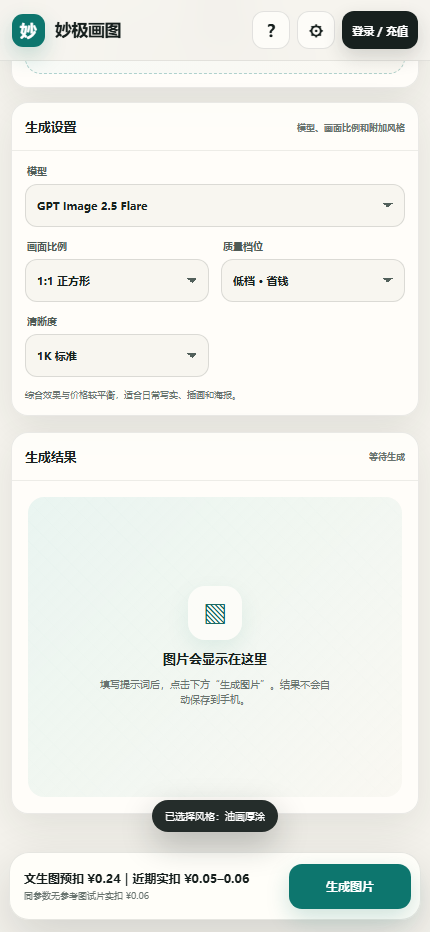
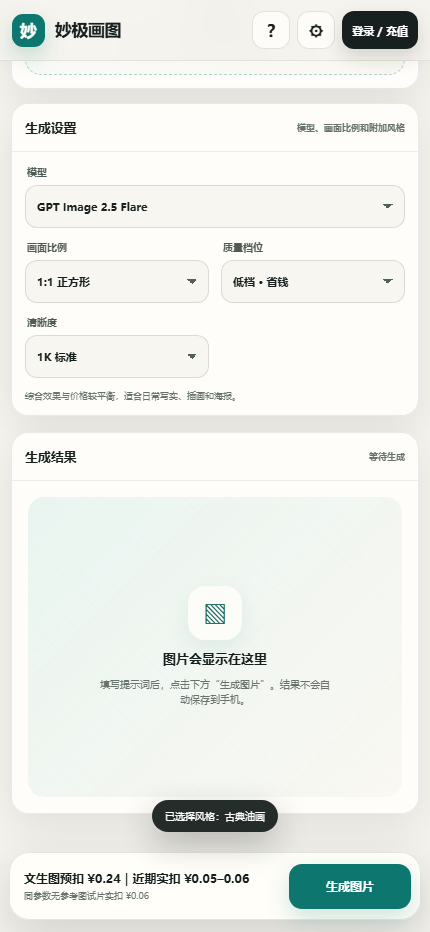
release: add detailed style previews and rewritten prompts

diff --git a/android/app/src/main/assets/index.html b/android/app/src/main/assets/index.html
@@ -482,9 +482,17 @@
     }
     .style-preview {
       position: relative;
-      height: 86px;
+      height: auto;
+      aspect-ratio: 4 / 3;
       overflow: hidden;
       background: #ddd8cd;
+    }
+    .style-preview img {
+      width: 100%;
+      height: 100%;
+      display: block;
+      object-fit: cover;
+      transform: scale(1.01);
     }
     .style-preview::after {
       content: "";
@@ -1052,7 +1060,7 @@
       .settings-grid { grid-template-columns: 1fr 1fr; }
       .settings-grid .field:first-child { grid-column: 1 / -1; }
       .style-grid { grid-template-columns: repeat(2, minmax(0, 1fr)); }
-      .style-preview { height: 92px; }
+      .style-preview { height: auto; }
       .reference-preview { grid-template-columns: 78px minmax(0, 1fr); }
       .reference-preview img { width: 78px; height: 78px; }
       .action-dock { min-height: 68px; padding: 9px; }
@@ -1223,7 +1231,7 @@
         <div class="update-box">
           <div class="update-head">
             <strong>应用更新</strong>
-            <span class="version-text" id="versionText">当前版本 1.4.1</span>
+            <span class="version-text" id="versionText">当前版本 1.5.0</span>
           </div>
           <p class="update-message" id="updateMessage">从 GitHub Releases 检查新版本。</p>
           <div class="button-row">
@@ -1352,24 +1360,24 @@
         desc: "完全按你的文字生成", prompt: ""
       },
       {
-        id: "oil", name: "油画厚涂", category: "popular", preview: "oil",
-        desc: "笔触、油彩与厚涂质感",
-        prompt: "经典油画风格，明显而有层次的厚涂笔触，丰富油彩质感，博物馆级画面，戏剧性明暗和深邃色彩"
+        id: "oil", name: "古典油画", category: "popular", preview: "oil",
+        desc: "厚涂、罩染与博物馆光感",
+        prompt: "采用传统布面油画语言，厚涂堆叠与透明罩染结合。先用大块色面建立体积，再在衣褶、皮肤、岩石、木材和金属等关键处保留清楚可读的笔触。主光从侧后方进入，形成温暖的亮部、丰富中间色和带色相的透明暗部，必要时加入一束克制的冷色轮廓光。近景细节密集，远处逐渐概括，画面具有博物馆原作级别的色层、肌理和空气感。避免数码平滑、塑料高光、过度锐化和俗艳滤镜。除用户明确要求外，不生成文字、签名或水印。"
       },
       {
-        id: "illustration", name: "精品插画", category: "popular", preview: "storybook",
-        desc: "出版级构图与配色",
-        prompt: "高质量出版级插画，精致构图，和谐高级配色，丰富手绘细节，画面完整，具有叙事感"
+        id: "illustration", name: "叙事插画", category: "popular", preview: "storybook",
+        desc: "出版级构图与视觉叙事",
+        prompt: "创作出版级叙事插画。画面先建立清晰视觉中心，再用一条自然动线引导视线穿过前景、中景和背景。主体造型经过提炼但细节充足，边缘有手绘的温度；配色采用一个主色调、两种邻近色和少量高饱和强调色，明暗关系明确。加入可信的布料纹理、木纹、石材、植物和环境光，细节只集中在叙事关键处，背景适度概括。构图具有编辑设计感，画面完整、克制、有故事但不过度拥挤。除用户明确要求外，不出现文字、边框、logo或水印。"
       },
       {
         id: "cinematic", name: "电影剧照", category: "photo", preview: "film",
-        desc: "逆光、景深与电影色彩",
-        prompt: "电影剧照风格，电影摄影机质感，戏剧性逆光，自然景深，电影调色，真实皮肤与材质细节"
+        desc: "真实镜头、叙事光与电影调色",
+        prompt: "真实电影剧照质感，仿佛使用35mm电影摄影机和35–50mm镜头拍摄。光源必须有明确动机：窗光、路灯、落日或场景实景灯；主体边缘有柔和轮廓光，背景自然虚化但保留环境信息。人物皮肤有细微毛孔和真实高光，服装、头发、灰尘与空气微粒可信。采用低饱和电影调色，高光偏暖、阴影带冷色，保留宽容度和层次，不使用AI式过度磨皮。构图像一个故事的关键停顿，主体有动作和情绪，画面没有摆拍塑料感。除用户明确要求外，不出现字幕、logo或水印。"
       },
       {
-        id: "papercard", name: "纸艺卡片", category: "design", preview: "papercard",
-        desc: "纸雕层次与精致留白",
-        prompt: "高级纸艺拼贴卡片风格，分层纸雕结构，细纸纹理与柔和阴影，精致留白，杂志级平面构图"
+        id: "papercard", name: "纸雕艺术卡", category: "design", preview: "papercard",
+        desc: "多层纸雕、真实纸纤维与光影",
+        prompt: "高级纸雕艺术卡片。画面由多层不同厚度和颜色的纸材构成，层与层之间保持真实空间距离，产生柔和投影和纸纤维边缘。主景用剪纸轮廓建立，细节通过镂空、刻线和少量叠色完成；主体占画面约一半，留出呼吸空间。光线从左上侧柔和进入，让纸面产生轻微起伏与细微纹理，但不过度做旧。配色控制在三到四种，采用米白、墨绿、暖红或金色中的一个重点色。整体有手工制作的可信触感、编辑设计感和收藏价值。除用户明确要求外，不生成文字或水印。"
       },
       {
         id: "travel-memory", name: "旅行记忆拼贴", category: "design", preview: "travel",
@@ -1377,61 +1385,66 @@
         prompt: "将上传的旅行照片制作成一张3:4竖版创意拼贴海报。严格保留上半部分原照片的人物身份、发型、服装、姿势、主体、构图、色彩和真实摄影质感，不得换人、增加另一个人、改变人物年龄或服装。下半部分使用温暖但干净的米白色纸面，以少量克制的黑色手绘线条为主，只从原图中选择一种主要景物延伸过边界，并转化成一件能使用的东西。只设计一个清楚、自然的互动，且必须与上半人物的动作关系连续；如果原图没有人物，才可使用一个很小的线稿人物。上下景物必须沿边界自然连接，动作合理，不能出现两套互不相关的场景。大面积留白，只保留必要线条，不添加无关装饰、完整插画或厚重纹理。配一句与动作有关的简短手写英文。整体克制、自然，有独立杂志的拼贴感，上下明暗、色温和透视协调。"
       },
       {
-        id: "watercolor", name: "水彩手绘", category: "art", preview: "watercolor",
-        desc: "水色晕染与纸张纹理",
-        prompt: "高级水彩手绘风格，自然水色晕染，透明叠色，纸张纤维纹理，边缘轻松，画面通透有呼吸感"
+        id: "watercolor", name: "透明水彩", category: "art", preview: "watercolor",
+        desc: "湿画晕染、留白与纸纤维",
+        prompt: "传统透明水彩原作质感，使用冷压棉浆水彩纸。先以湿画法铺出大块空气感色面，再用干笔在视觉中心补充结构、纹理和少量铅笔线。颜色通过透明叠色形成，不靠厚重白颜料；高光利用纸张留白，边缘有自然水痕、轻微回渗和颜料沉积，但不弄脏画面。主色和邻近色保持和谐，只在一个小区域使用饱和度较高的暖色或冷色作为惊喜。构图有呼吸感，主体细节集中，背景逐渐虚化。避免数码渐变、塑料高光和均匀颗粒。除用户明确要求外，不出现文字或水印。"
       },
       {
-        id: "ink", name: "水墨国风", category: "art", preview: "ink",
-        desc: "宣纸、墨韵与大留白",
-        prompt: "中国水墨画风格，宣纸质感，墨色浓淡与飞白变化，写意笔触，大面积留白，东方审美构图"
+        id: "ink", name: "现代水墨", category: "art", preview: "ink",
+        desc: "宣纸、墨韵、飞白与留白",
+        prompt: "现代水墨画语言，表现于有细微纤维的宣纸。以焦、浓、重、淡、清五种墨阶建立空间，湿笔形成柔和扩散，干笔保留飞白和纸面阻力。主体先以有力的大笔触确定气势，再用少量细线补充结构；远景用水墨淡染和留白暗示，不做完整写实描摹。画面保留大面积安静空间，黑白节奏明确，必要时只加入一处很小但克制的朱红或青绿作为视觉惊喜。构图具有现代东方审美，避免程序化梅花、假毛笔字和装饰性堆砌。除用户明确要求外，不出现文字、印章或水印。"
       },
       {
-        id: "anime", name: "动漫插画", category: "art", preview: "anime",
-        desc: "清爽色彩与精细背景",
-        prompt: "高质量动漫插画风格，干净线稿，通透色彩，精致背景，自然光影，完成度高的商业动画视觉"
+        id: "anime", name: "动画关键帧", category: "art", preview: "anime",
+        desc: "赛璐璐光、精细背景与镜头感",
+        prompt: "商业动画关键帧质感。角色线稿清晰并有粗细变化，赛璐璐色块干净，头发和眼睛具有分层高光，衣料褶皱符合动作。背景按动画美术标准绘制，近景材质详细、远景概括，使用室内外统一光源与明确色温。构图像一个正在发生的镜头，角色有自然动作、视线和情绪；前景可加入轻微遮挡，空气中有少量可信的光斑或粒子。色彩通透，不脏不乱，暗部有颜色，不把角色与背景生硬贴在一起。避免廉价滤镜、过度发光和随机装饰。除用户明确要求外，不出现文字或水印。"
       },
       {
-        id: "manga", name: "漫画线稿", category: "art", preview: "manga",
-        desc: "黑白网点与强烈线条",
-        prompt: "漫画线稿风格，粗细变化的墨线，网点阴影，强烈黑白构图，动感分镜感，纸张印刷质感"
+        id: "manga", name: "黑白漫画", category: "art", preview: "manga",
+        desc: "墨线、网点与戏剧性分镜",
+        prompt: "专业黑白漫画原稿质感。主轮廓用有压力的蘸水笔或 G 笔线条，内部结构用细线密排，阴影通过网点、排线和大面积黑场建立。前景、中景和背景必须用线条密度和黑白比例分层，视觉中心对比最强，次要区域大胆简化。动作方向明确，分镜式构图带有运动感和张力；必要时加入速度线、雨线或空气流线，但线条必须服从场景。纸张保留轻微印刷纤维，不使用灰色柔光塑料效果。避免杂乱描线、文字气泡和未经要求的对白。除用户明确要求外，不出现文字或水印。"
       },
       {
-        id: "pixel", name: "像素游戏", category: "art", preview: "pixel",
-        desc: "复古游戏像素画面",
-        prompt: "精致复古像素游戏美术，清晰的像素边缘，有限色板，立体光影，场景层次丰富，怀旧游戏画面"
+        id: "pixel", name: "像素叙事", category: "art", preview: "pixel",
+        desc: "有限色板、点阵光影与关卡感",
+        prompt: "高完成度像素叙事游戏美术，像素边缘干净，不使用模糊缩放。采用有限色板，每个材质有独立但统一的明暗阶；通过抖动、点阵渐变和局部高光塑造体积。画面构图像可游玩的游戏场景，前景、可行走区域、中景主体和远景剪影层次清楚，加入真实可信的小道具和光影线索，让观者能读出故事和下一步动作方向。夜景要有暖色实景光与冷色环境光对比，像素颗粒服务氛围但不污染画面。避免低分辨率马赛克、随机噪点和简单复古滤镜。除用户明确要求外，不出现文字、UI或水印。"
       },
       {
-        id: "film", name: "胶片写真", category: "photo", preview: "film",
-        desc: "自然颗粒与胶片色调",
-        prompt: "真实胶片摄影风格，柔和自然光，细腻皮肤与材质，轻微颗粒，胶片色彩，浅景深，纪实感"
+        id: "film", name: "胶片纪实", category: "photo", preview: "film",
+        desc: "35mm 颗粒、宽容度与真实肤色",
+        prompt: "真实35mm彩色负片摄影质感。采用自然光或现场实景光，曝光保留高光柔和过渡和暗部细节，肤色真实，避免统一橙色滤镜。画面有细密但克制的胶片颗粒、轻微光晕、真实镜头暗角和浅景深；焦点落在主体眼睛、手部动作或关键物体上，背景保留环境叙事。构图像抓拍到的真实瞬间，人物姿态自然，不整齐排列。材质上区分皮肤、棉布、旧木、金属和空气尘埃，整体具有纪实摄影的信任感和编辑选择感。避免数字磨皮、过度锐化和无意义虚化。除用户明确要求外，不出现文字或水印。"
       },
       {
-        id: "editorial", name: "高端画册", category: "design", preview: "editorial",
-        desc: "极简排版与高级质感",
-        prompt: "高端时尚画册视觉，极简编辑设计，克制配色，大块留白，精致材质，杂志封面级灯光和构图"
+        id: "editorial", name: "奢华编辑", category: "design", preview: "editorial",
+        desc: "艺术指导、材质对比与高级留白",
+        prompt: "博物馆级时尚编辑视觉。先确定一个强视觉概念，再用克制的艺术指导组织主体、道具和留白。材质之间形成清楚对比，例如哑光石材、拉丝金属、半透明玻璃、丝绒、纸张和真实皮肤；每一种材质都要有可信的高光、反射和微观纹理。光源经过设计，使用大面积柔光和少量硬光切面建立雕塑感。色板限制在象牙白、炭黑、金属色和一个低饱和强调色之间，细节集中在视觉中心和材质交界，背景保持安静。整体像高端杂志跨页或品牌艺术指导作品，避免堆砌奢侈品符号、俗气金色和文字。除用户明确要求外，不出现logo或水印。"
       },
       {
-        id: "poster", name: "复古海报", category: "design", preview: "poster",
-        desc: "几何构图与印刷颗粒",
-        prompt: "复古艺术海报风格，大胆几何构图，有限高对比色板，丝网印刷颗粒，强烈视觉中心，经典平面设计"
+        id: "poster", name: "丝网海报", category: "design", preview: "poster",
+        desc: "几何构成、套色错位与纸张颗粒",
+        prompt: "中世纪现代主义丝网印刷海报风格。画面由大胆几何色块和高度概括的剪影构成，使用三到五种克制的印刷色，通过叠色产生新的中间色。允许轻微套色错位、油墨边缘不齐和纸张纤维，让作品有真实手工印刷感；主体轮廓必须一眼可读，视觉中心强烈，负空间经过设计。光影被压缩成平面形状，纹理只出现在局部，避免写实渲染。构图具有旅行海报或文化展览海报的收藏感，所有元素共享同一视觉语言。除用户明确要求外，不生成文字、标题、logo或水印。"
       },
       {
-        id: "clay", name: "3D 黏土", category: "3d", preview: "clay",
-        desc: "柔软材质与棚拍布光",
-        prompt: "3D 黏土定格动画风格，柔软细腻的黏土材质，圆润造型，可爱比例，柔和棚拍灯光，精致微缩场景"
+        id: "clay", name: "黏土定格", category: "3d", preview: "clay",
+        desc: "指纹、微缩布景与定格光影",
+        prompt: "手工黏土定格动画场景。所有主体、道具和环境都像由真实黏土、软陶、毛毡、纸张和细木制作，表面保留轻微指纹、压痕、细小裂纹和不完全规整的边缘。场景是完整微缩布景，有前景遮挡、中景主体和背景层次，道具尺寸比例可信。采用柔和棚拍布光与小型实景灯，投射真实软影和局部硬影，镜头有微距景深。角色造型圆润但有结构，不幼稚；颜色低饱和，只用一个明亮色作为视觉惊喜。画面像定格动画中的关键帧，有故事和手作温度，避免塑料3D渲染和过度平滑。除用户明确要求外，不出现文字或水印。"
       },
       {
-        id: "blindbox", name: "盲盒手办", category: "3d", preview: "blindbox",
-        desc: "潮玩手办与精致展台",
-        prompt: "高端潮玩盲盒手办风格，精细 3D 造型，光滑树脂与柔软搪胶材质，精致底座和展台，棚拍产品光"
+        id: "blindbox", name: "收藏级手办", category: "3d", preview: "blindbox",
+        desc: "角色设定、树脂材质与展台布景",
+        prompt: "收藏级设计师手办产品视觉。角色造型先有鲜明轮廓和可识别道具，再补充服装层次、配件、材质分区和微小机关，让观者能不断发现细节。使用真实收藏玩具常见的哑光树脂、半透明搪胶、织物、金属和透明亚克力组合，各部分反射不同。摆放于有叙事线索的精致圆形展台，场景中只保留少量与角色身份相关的道具。棚拍柔光加一盏轮廓光勾出边缘，背景干净但带空间深度；材质精密、颜色克制，只有一个高饱和视觉点。整体像高端艺术玩具摄影，避免廉价塑料感、儿童玩具包装和随机装饰。除用户明确要求外，不出现文字、品牌或水印。"
       },
       {
-        id: "fantasy", name: "奇幻史诗", category: "art", preview: "fantasy",
-        desc: "宏大场景与神秘光效",
-        prompt: "奇幻史诗艺术风格，宏大场景，神秘魔法光效，精细服饰与建筑，电影概念设计，丰富层次和空气透视"
+        id: "fantasy", name: "奇幻概念", category: "art", preview: "fantasy",
+        desc: "世界尺度、层次光影与叙事细节",
+        prompt: "电影级奇幻概念设计。先通过巨大尺度参照建立世界感，例如微小人物面对宏大遗迹、漂浮建筑或古老生物；前景、中景、远景用空气透视和不同清晰度分层。主光来自明确来源，例如破云金色天光、魔法裂隙或远处火光，冷暖对比克制。服饰、盔甲、石材、树皮和生物表面都有可信结构与磨损，细节集中在叙事关键处；远景用大气、雾层和轮廓表达空间。画面神秘但不混乱，魔法效果具有材质和方向，不只是一团发光。整体像可继续制作电影的世界观概念图，避免游戏广告式堆砌和对称摆拍。除用户明确要求外，不出现文字或水印。"
       }
     ];
+    STYLE_CARDS.forEach((style) => {
+      if (style.id !== "none") {
+        style.previewImage = `styles/${style.id}.jpg`;
+      }
+    });
 
     const SIZE_OPTIONS = [
       ["1:1", "1:1 正方形"], ["3:4", "3:4 竖图"], ["4:3", "4:3 横图"],
@@ -1542,6 +1555,13 @@
 
         const preview = document.createElement("div");
         preview.className = `style-preview ${style.preview}`;
+        if (style.previewImage) {
+          const image = document.createElement("img");
+          image.src = style.previewImage;
+          image.alt = `${style.name}效果预览`;
+          image.loading = "lazy";
+          preview.appendChild(image);
+        }
         const check = document.createElement("span");
         check.className = "style-check";
         check.textContent = "✓";
@@ -2162,7 +2182,7 @@
       updateCharCount();
       updateConnectionState();
       $("versionText").textContent = bridge()
-        ? `当前版本 ${bridge().currentVersion()}` : "当前版本 1.4.1";
+        ? `当前版本 ${bridge().currentVersion()}` : "当前版本 1.5.0";
 
       if (!isPreview && bridge() && !bridge().hasKey()) {
         openModal(settingsModal);

diff --git a/android/app/src/main/java/com/codex/miaojipaint/MainActivity.java b/android/app/src/main/java/com/codex/miaojipaint/MainActivity.java
@@ -234,7 +234,7 @@ public class MainActivity extends Activity {
             try {
                 return getPackageManager().getPackageInfo(getPackageName(), 0).versionName;
             } catch (Exception error) {
-                return "1.4.1";
+                return "1.5.0";
             }
         }
 
@@ -624,7 +624,7 @@ public class MainActivity extends Activity {
         try {
             return getPackageManager().getPackageInfo(getPackageName(), 0).versionName;
         } catch (Exception error) {
-            return "1.4.1";
+            return "1.5.0";
         }
     }
 

diff --git a/docs/style-sources.md b/docs/style-sources.md
@@ -15,10 +15,31 @@ Civitai 全时期热度样例：
 - Pixel Art XL：约 11.9 万下载、6,288 点赞，偏像素游戏美术。
 - Realistic Skin Texture style：约 19.2 万下载、7,599 点赞，偏电影胶片、颗粒和真实材质。
 
-应用中的 15 张卡片把这些类型转成纯提示词风格，包括：
+应用中的 16 张风格卡片把这些类型转成纯提示词风格，包括：
 
 - 油画厚涂、精品插画、水彩手绘、动漫插画、漫画线稿、水墨国风、像素游戏。
 - 电影剧照、胶片写真、高端画册、复古海报、奇幻史诗。
 - 纸艺卡片、3D 黏土、盲盒手办。
 
 风格卡片不改变模型，也不增加模型费用。
+
+## 2026-10-28 二次筛选
+
+进一步查询了独立风格关键词的全时期下载和点赞数据：
+
+- Cinematic Shot：约 60,800 下载、4,413 点赞。
+- Oil painting / oil brush stroke：约 36,268 下载、3,326 点赞。
+- Watercolor painting：约 13,700 下载、1,000 点赞。
+- 3D CG Style / Realistic：约 13,476 下载、1,370 点赞。
+- Vintage Travel Poster：约 2,793 下载、261 点赞。
+- Paper Cut Light Box Art：约 1,535 下载、268 点赞。
+
+B 站公开搜索结果中出现的高相关教程标题包括：
+
+- “5个高质量插画风格 LoRA 分享”
+- “10个超实用 LoRA 模型推荐”
+- “25种画风 × 6个图片模型｜150张盲选”
+- “Krea2 全攻略｜风格 LoRA 推荐”
+- “光影 LoRA 展示与分享”
+
+小红书和抖音的站内结果受登录、签名和反爬限制，本次没有把无法核验的帖子当作依据。最终卡片按 Civitai 下载/点赞数据和可验证的公开教程标题重写，不直接复制任何 LoRA 权重或作者专属风格。

diff --git a/README.md b/README.md
@@ -8,6 +8,7 @@
 - 从相册一次上传最多 6 张 PNG、JPG、WEBP 参考图，应用内自动压缩。
 - 使用妙极 MAGE 图像模型，不额外接入第三方开源模型平台。
 - 热门风格卡片：油画厚涂、水彩、水墨、动漫、漫画线稿、胶片、纸艺卡片、复古海报、3D 黏土、盲盒手办等。
+- 每张风格卡片都有独立效果预览图，并根据社区高收藏类型的视觉语言重新编写详细提示词。
 - 风格卡片只追加提示词，不切换模型、不下载 LoRA、不产生额外模型费用。
 - 图生图可“上传图片 + 选择风格”直接生成，不需要填写提示词；提示词仅用于补充要求。
 - 内置旅行照片 3:4 海报风格：真实照片与纸面手绘延展组合。
